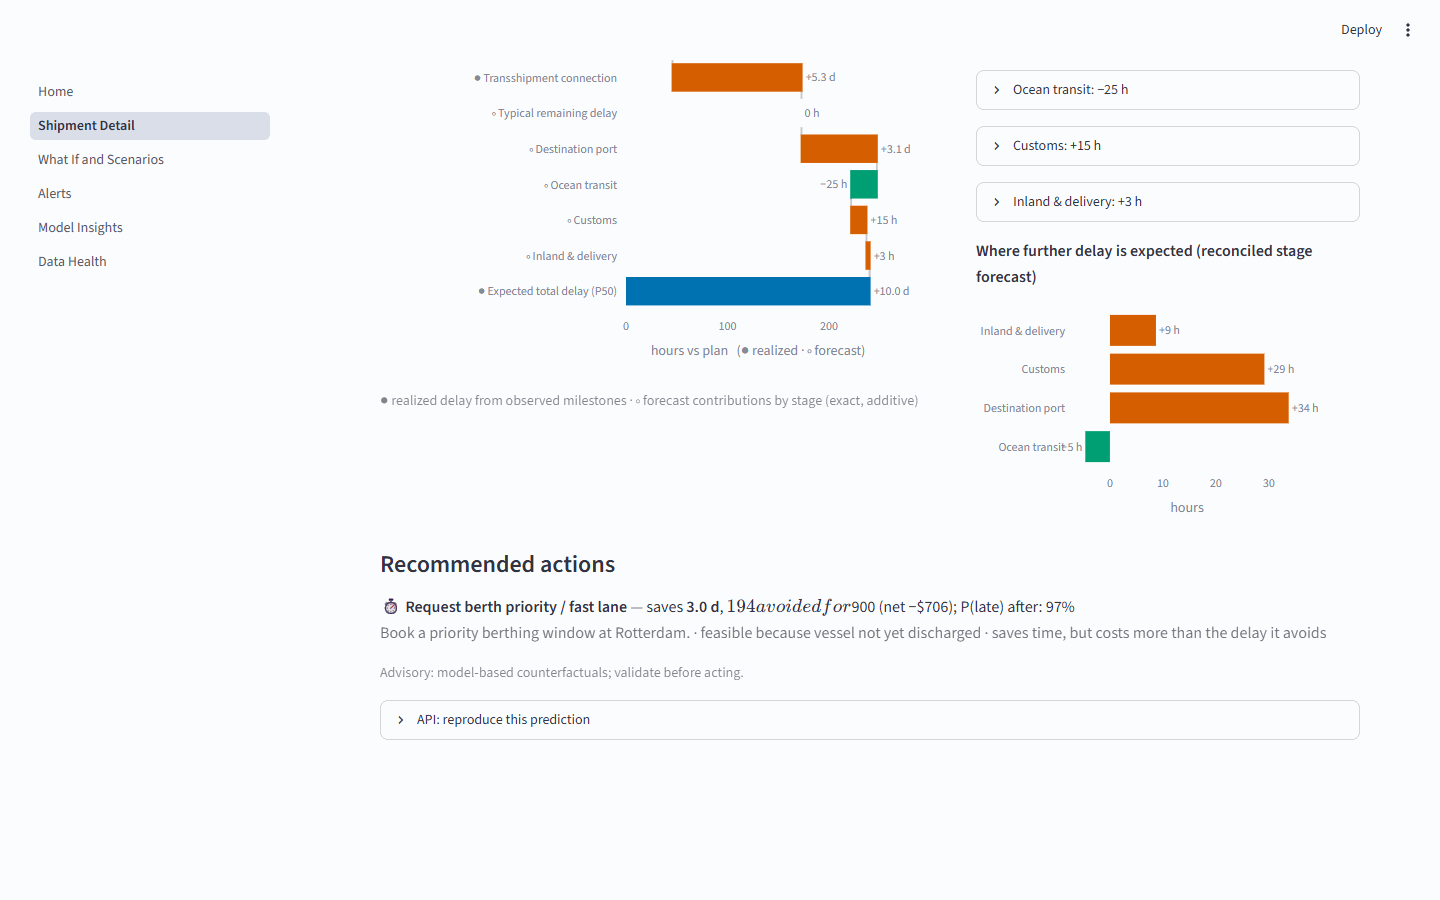
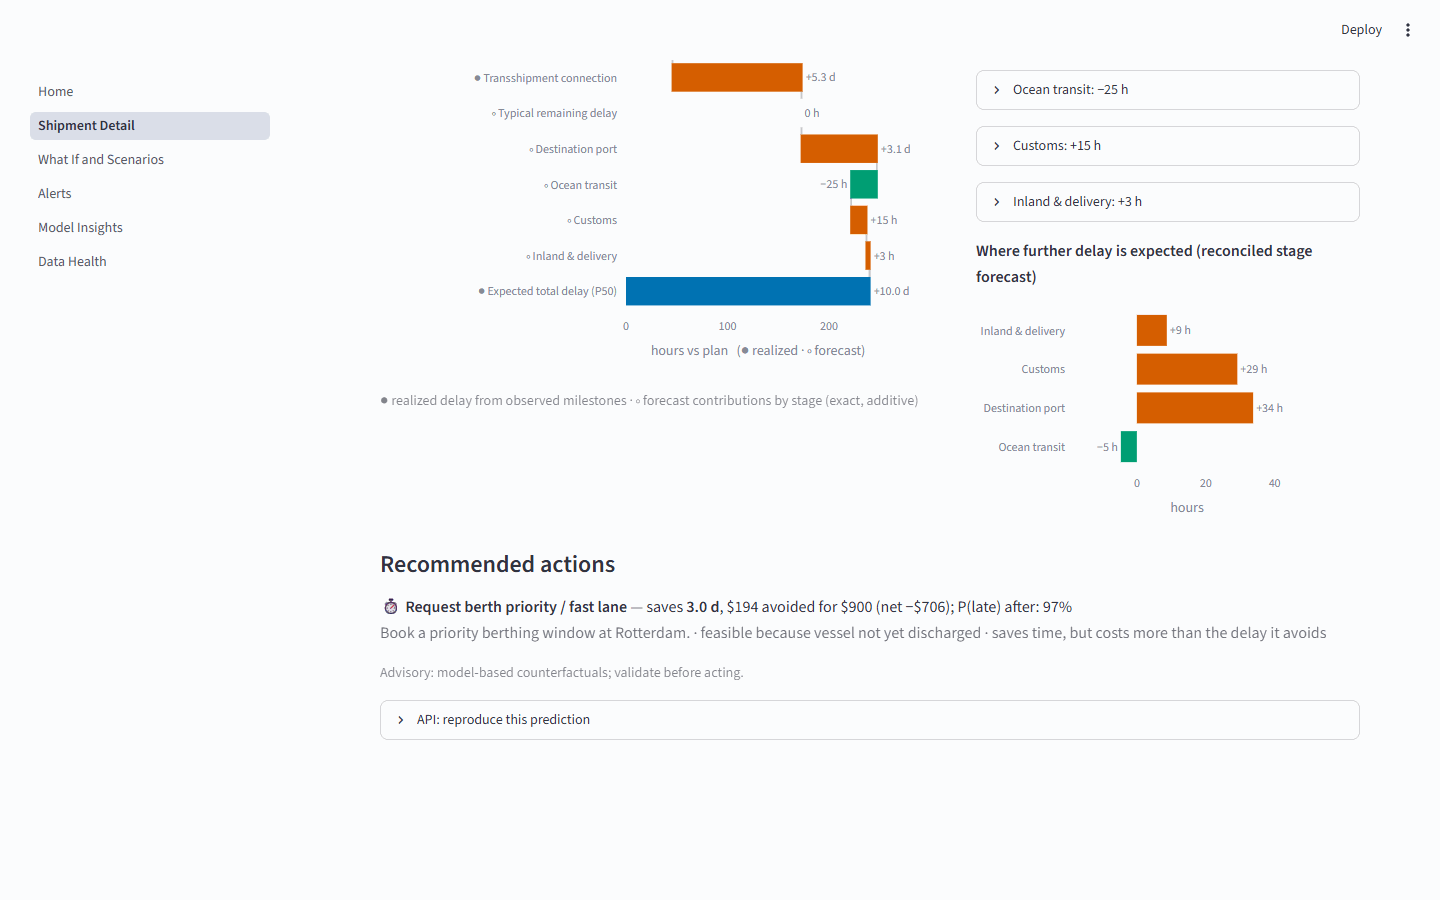
UI: escape dollar signs to prevent latex formatting and pad waterfall chart axes

Changed region(s): [[0.75, 0.3422, 0.8125, 0.5289], [0.5, 0.6533, 0.75, 0.6844], [0.8438, 0.3733, 0.9062, 0.4667]]

diff --git a/app/pages/1_Shipment_Detail.py b/app/pages/1_Shipment_Detail.py
@@ -138,7 +138,14 @@ with right:
                     cliponaxis=False,
                 )
             )
-            fig.update_layout(height=220, margin=dict(l=10, r=60, t=5, b=5), xaxis_title="hours")
+            # pad the x-range so outside labels (incl. negative bars) stay clear of the axis labels
+            lo, hi = min(0.0, *sf.values()), max(0.0, *sf.values())
+            pad = 0.25 * (hi - lo) + 4
+            fig.update_layout(
+                height=220,
+                margin=dict(l=10, r=60, t=5, b=5),
+                xaxis=dict(title="hours", range=[lo - pad if lo < 0 else 0, hi + pad]),
+            )
             st.plotly_chart(fig, use_container_width=True)
 
 # ---- recommended actions ----------------------------------------------------------------------
@@ -155,15 +162,16 @@ for rec in recs:
         icon, verdict = "⏱", " · saves time, but costs more than the delay it avoids"
     else:
         icon, verdict = "▫", ""
-    st.markdown(
+    line = (
         f"{icon} **{rec['label']}** — saves **{dur(rec['hours_saved']).lstrip('+')}**, "
         f"{usd(rec['usd_saved'])} avoided for {usd(rec['action_cost_usd'])} "
         f"(net {usd(rec['net_value_usd'], signed=True)}); "
         f"P(late) after: {rec['p_late_after']:.0%}  \n"
         f"<span style='opacity:.7'>{rec['description']} · feasible because "
-        f"{rec['feasible_reason']}{verdict}</span>",
-        unsafe_allow_html=True,
+        f"{rec['feasible_reason']}{verdict}</span>"
     )
+    # escape "$": two of them in one string would otherwise render as LaTeX math
+    st.markdown(line.replace("$", r"\$"), unsafe_allow_html=True)
 st.caption(adv["disclaimer"])
 
 with st.expander("API: reproduce this prediction"):
